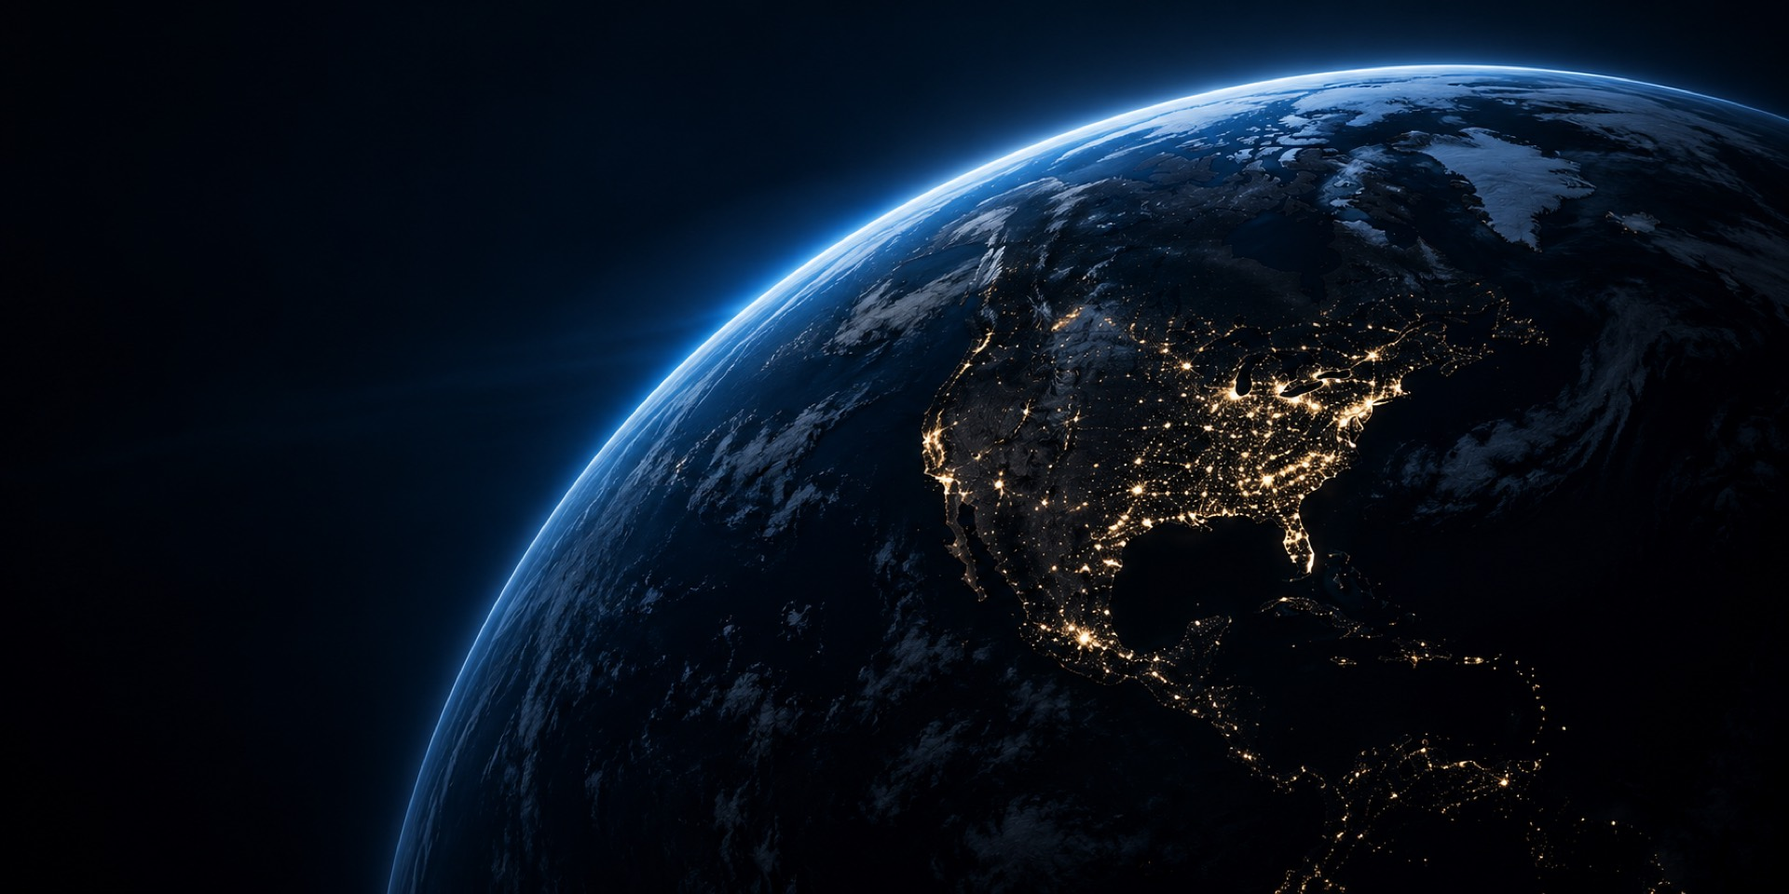
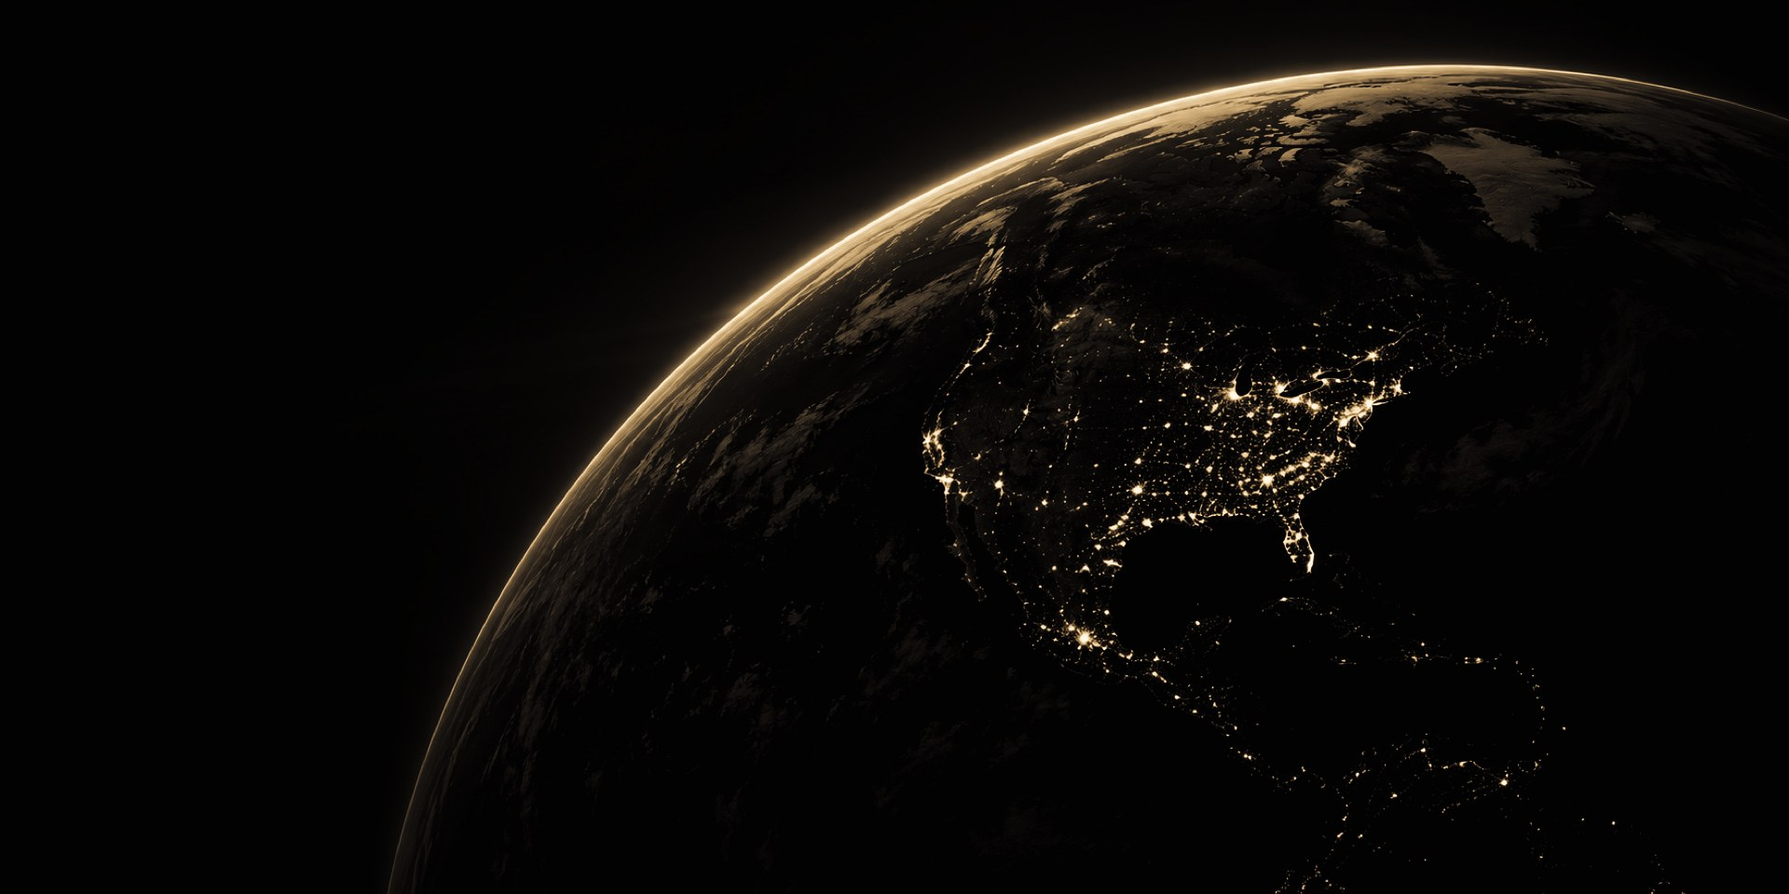
Tout en noir et or : photos étalonnées à l'or du logiciel, batteries et radar dorés
Claude-Session: https://claude.ai/code/session_01C6SVDBojuyhTsqyWwaduN5

diff --git a/index.html b/index.html
@@ -20,16 +20,16 @@
 <meta name="geo.region" content="CA-QC">
 <meta name="referrer" content="strict-origin-when-cross-origin">
 <meta name="theme-color" content="#000000">
-<link rel="icon" href="/favicon.svg?v=20261106d">
+<link rel="icon" href="/favicon.svg?v=20261106e">
 <link rel="apple-touch-icon" href="/apple-touch-icon.png">
 <script>try{var m=new URLSearchParams(location.search).get("mode")||localStorage.getItem("jarvis-mode");if(m==="base"||m==="signature"||m==="platinum")document.documentElement.dataset.mode=m}catch(e){}</script>
 <link rel="preload" href="/assets/fonts/geist/geist-latin.woff2" as="font" type="font/woff2" crossorigin>
-<link rel="stylesheet" href="/assets/css/wow.css?v=20261106d">
-<link rel="stylesheet" href="/assets/demos/app.css?v=20261106d">
-<link rel="stylesheet" href="/assets/demos/maison.css?v=20261106d">
-<link rel="stylesheet" href="/assets/demos/boulance.css?v=20261106d">
-<link rel="stylesheet" href="/assets/demos/carte.css?v=20261106d">
-<link rel="stylesheet" href="/assets/demos/rust.css?v=20261106d">
+<link rel="stylesheet" href="/assets/css/wow.css?v=20261106e">
+<link rel="stylesheet" href="/assets/demos/app.css?v=20261106e">
+<link rel="stylesheet" href="/assets/demos/maison.css?v=20261106e">
+<link rel="stylesheet" href="/assets/demos/boulance.css?v=20261106e">
+<link rel="stylesheet" href="/assets/demos/carte.css?v=20261106e">
+<link rel="stylesheet" href="/assets/demos/rust.css?v=20261106e">
 </head>
 <body class="">
 <a class="skip-link" href="#contenu">Aller au contenu</a>
@@ -580,8 +580,8 @@
         <div class="bl-cell">
           <svg class="bl-liquid" viewBox="0 0 200 400" preserveAspectRatio="none">
             <defs><linearGradient id="bl-liq-0" x1="0" x2="0" y1="0" y2="1">
-              <stop offset="0" style="stop-color:var(--bl-c, #34d399)"/>
-              <stop offset="1" style="stop-color:var(--bl-c2, #0f766e)"/></linearGradient></defs>
+              <stop offset="0" style="stop-color:var(--bl-c, #f0d29a)"/>
+              <stop offset="1" style="stop-color:var(--bl-c2, #7a5420)"/></linearGradient></defs>
             <path class="bl-wave w2" d=""></path><path class="bl-wave w1" d="" style="fill:url(#bl-liq-0)"></path>
           </svg>
           <div class="bl-bubbles"></div>
@@ -635,8 +635,8 @@
         <div class="bl-cell">
           <svg class="bl-liquid" viewBox="0 0 200 400" preserveAspectRatio="none">
             <defs><linearGradient id="bl-liq-1" x1="0" x2="0" y1="0" y2="1">
-              <stop offset="0" style="stop-color:var(--bl-c, #34d399)"/>
-              <stop offset="1" style="stop-color:var(--bl-c2, #0f766e)"/></linearGradient></defs>
+              <stop offset="0" style="stop-color:var(--bl-c, #f0d29a)"/>
+              <stop offset="1" style="stop-color:var(--bl-c2, #7a5420)"/></linearGradient></defs>
             <path class="bl-wave w2" d=""></path><path class="bl-wave w1" d="" style="fill:url(#bl-liq-1)"></path>
           </svg>
           <div class="bl-bubbles"></div>
@@ -1171,11 +1171,11 @@
   </div>
   <p class="foot-line"><span>© 2026 JARVIS Private Systems · Québec, Canada</span><span>Privé par conception</span></p>
 </footer>
-<script src="/assets/js/wow.js?v=20261106d" defer></script>
-<script src="/assets/demos/app.js?v=20261106d" defer></script>
-<script src="/assets/demos/maison.js?v=20261106d" defer></script>
-<script src="/assets/demos/boulance.js?v=20261106d" defer></script>
-<script src="/assets/demos/carte.js?v=20261106d" defer></script>
-<script src="/assets/demos/rust.js?v=20261106d" defer></script>
+<script src="/assets/js/wow.js?v=20261106e" defer></script>
+<script src="/assets/demos/app.js?v=20261106e" defer></script>
+<script src="/assets/demos/maison.js?v=20261106e" defer></script>
+<script src="/assets/demos/boulance.js?v=20261106e" defer></script>
+<script src="/assets/demos/carte.js?v=20261106e" defer></script>
+<script src="/assets/demos/rust.js?v=20261106e" defer></script>
 </body>
 </html>

diff --git a/laboratoire-mobile/index.html b/laboratoire-mobile/index.html
@@ -18,14 +18,14 @@
 <meta name="geo.region" content="CA-QC">
 <meta name="referrer" content="strict-origin-when-cross-origin">
 <meta name="theme-color" content="#000000">
-<link rel="icon" href="/favicon.svg?v=20261106d">
+<link rel="icon" href="/favicon.svg?v=20261106e">
 <link rel="apple-touch-icon" href="/apple-touch-icon.png">
 <script>try{var m=new URLSearchParams(location.search).get("mode")||localStorage.getItem("jarvis-mode");if(m==="base"||m==="signature"||m==="platinum")document.documentElement.dataset.mode=m}catch(e){}</script>
 <link rel="preload" href="/assets/fonts/geist/geist-latin.woff2" as="font" type="font/woff2" crossorigin>
-<link rel="stylesheet" href="/assets/css/wow.css?v=20261106d">
-<link rel="stylesheet" href="/assets/demos/boulance.css?v=20261106d">
-<link rel="stylesheet" href="/assets/demos/carte.css?v=20261106d">
-<link rel="stylesheet" href="/assets/demos/ambiances.css?v=20261106d">
+<link rel="stylesheet" href="/assets/css/wow.css?v=20261106e">
+<link rel="stylesheet" href="/assets/demos/boulance.css?v=20261106e">
+<link rel="stylesheet" href="/assets/demos/carte.css?v=20261106e">
+<link rel="stylesheet" href="/assets/demos/ambiances.css?v=20261106e">
 </head>
 <body class="">
 <a class="skip-link" href="#contenu">Aller au contenu</a>
@@ -96,8 +96,8 @@
         <div class="bl-cell">
           <svg class="bl-liquid" viewBox="0 0 200 400" preserveAspectRatio="none">
             <defs><linearGradient id="bl-liq-0" x1="0" x2="0" y1="0" y2="1">
-              <stop offset="0" style="stop-color:var(--bl-c, #34d399)"/>
-              <stop offset="1" style="stop-color:var(--bl-c2, #0f766e)"/></linearGradient></defs>
+              <stop offset="0" style="stop-color:var(--bl-c, #f0d29a)"/>
+              <stop offset="1" style="stop-color:var(--bl-c2, #7a5420)"/></linearGradient></defs>
             <path class="bl-wave w2" d=""></path><path class="bl-wave w1" d="" style="fill:url(#bl-liq-0)"></path>
           </svg>
           <div class="bl-bubbles"></div>
@@ -151,8 +151,8 @@
         <div class="bl-cell">
           <svg class="bl-liquid" viewBox="0 0 200 400" preserveAspectRatio="none">
             <defs><linearGradient id="bl-liq-1" x1="0" x2="0" y1="0" y2="1">
-              <stop offset="0" style="stop-color:var(--bl-c, #34d399)"/>
-              <stop offset="1" style="stop-color:var(--bl-c2, #0f766e)"/></linearGradient></defs>
+              <stop offset="0" style="stop-color:var(--bl-c, #f0d29a)"/>
+              <stop offset="1" style="stop-color:var(--bl-c2, #7a5420)"/></linearGradient></defs>
             <path class="bl-wave w2" d=""></path><path class="bl-wave w1" d="" style="fill:url(#bl-liq-1)"></path>
           </svg>
           <div class="bl-bubbles"></div>
@@ -386,9 +386,9 @@
   </div>
   <p class="foot-line"><span>© 2026 JARVIS Private Systems · Québec, Canada</span><span>Privé par conception</span></p>
 </footer>
-<script src="/assets/js/wow.js?v=20261106d" defer></script>
-<script src="/assets/demos/boulance.js?v=20261106d" defer></script>
-<script src="/assets/demos/carte.js?v=20261106d" defer></script>
-<script src="/assets/demos/ambiances.js?v=20261106d" defer></script>
+<script src="/assets/js/wow.js?v=20261106e" defer></script>
+<script src="/assets/demos/boulance.js?v=20261106e" defer></script>
+<script src="/assets/demos/carte.js?v=20261106e" defer></script>
+<script src="/assets/demos/ambiances.js?v=20261106e" defer></script>
 </body>
 </html>

diff --git a/assets/demos/boulance.css b/assets/demos/boulance.css
@@ -41,10 +41,10 @@
 [data-demo="boulance"] .bl-cell {
   position: relative; aspect-ratio: 1 / 2; border-radius: 18px; overflow: hidden;
   background: linear-gradient(90deg, #0d0c0b, #1a1814 50%, #0d0c0b); border: 1px solid #ffffff24;
-  box-shadow: inset 0 0 30px #000, 0 20px 50px #000c, 0 0 60px color-mix(in srgb, var(--bl-c, #34d399) calc(var(--soc, 0) * 0.3%), transparent);
+  box-shadow: inset 0 0 30px #000, 0 20px 50px #000c, 0 0 60px color-mix(in srgb, var(--bl-c, #f0d29a) calc(var(--soc, 0) * 0.28%), transparent);
 }
 [data-demo="boulance"] .bl-liquid { position: absolute; inset: 0; width: 100%; height: 100%; }
-[data-demo="boulance"] .bl-wave { fill: var(--bl-c, #34d399); transition: fill .8s; }
+[data-demo="boulance"] .bl-wave { fill: var(--bl-c, #f0d29a); transition: fill .8s; }
 [data-demo="boulance"] .bl-wave.w1 { opacity: .9; }
 [data-demo="boulance"] .bl-wave.w2 { opacity: .45; }
 [data-demo="boulance"] .bl-shine { position: absolute; inset: 0; pointer-events: none;
@@ -64,7 +64,7 @@
 [data-demo="boulance"] .bl-soc i { font-style: normal; font-size: .45em; margin-left: .1em; }
 [data-demo="boulance"] .bl-flag { font: 600 .58rem/1 var(--mono); letter-spacing: .1em; padding: .35rem .5rem; border-radius: 999px; border: 1px solid transparent; }
 [data-demo="boulance"] .bl-flag:empty { display: none; }
-[data-demo="boulance"] .bl-flag.ok { color: #9fe8bc; border-color: #2f5c42; }
+[data-demo="boulance"] .bl-flag.ok { color: var(--gold-soft); border-color: color-mix(in srgb, var(--gold-soft) 40%, transparent); }
 [data-demo="boulance"] .bl-flag.warn { color: #fcd34d; border-color: #7a5a1e; }
 [data-demo="boulance"] .bl-stats { display: grid; grid-template-columns: 1fr 1fr; gap: .7rem .9rem; margin: 0; }
 [data-demo="boulance"] .bl-stats dt { font: 500 .58rem/1.3 var(--mono); letter-spacing: .14em; text-transform: uppercase; color: #a8a8b0; }
@@ -72,7 +72,7 @@
 [data-demo="boulance"] .bl-stats dd { white-space: nowrap; margin: .2rem 0 0; font-weight: 650; font-size: 1.02rem; font-variant-numeric: tabular-nums; }
 [data-demo="boulance"] .bl-mos { display: flex; gap: .35rem; flex-wrap: wrap; margin: 1rem 0 0; }
 [data-demo="boulance"] .bl-mos span { font: 600 .56rem/1 var(--mono); letter-spacing: .1em; text-transform: uppercase; padding: .38rem .5rem; border-radius: 999px; border: 1px solid #ffffff24; color: #a8a8b0; }
-[data-demo="boulance"] .bl-mos span.on { color: #9fe8bc; border-color: #2f5c42; background: #0b2016aa; }
+[data-demo="boulance"] .bl-mos span.on { color: var(--gold-soft); border-color: color-mix(in srgb, var(--gold-soft) 40%, transparent); background: color-mix(in srgb, var(--gold-soft) 8%, transparent); }
 
 /* Centre : total, flux, courbe */
 [data-demo="boulance"] .bl-mid { padding: 2rem 1.6rem; display: flex; flex-direction: column; align-items: center; text-align: center; }

diff --git a/solutions/environnements-intelligents/index.html b/solutions/environnements-intelligents/index.html
@@ -18,13 +18,13 @@
 <meta name="geo.region" content="CA-QC">
 <meta name="referrer" content="strict-origin-when-cross-origin">
 <meta name="theme-color" content="#000000">
-<link rel="icon" href="/favicon.svg?v=20261106d">
+<link rel="icon" href="/favicon.svg?v=20261106e">
 <link rel="apple-touch-icon" href="/apple-touch-icon.png">
 <script>try{var m=new URLSearchParams(location.search).get("mode")||localStorage.getItem("jarvis-mode");if(m==="base"||m==="signature"||m==="platinum")document.documentElement.dataset.mode=m}catch(e){}</script>
 <link rel="preload" href="/assets/fonts/geist/geist-latin.woff2" as="font" type="font/woff2" crossorigin>
-<link rel="stylesheet" href="/assets/css/wow.css?v=20261106d">
-<link rel="stylesheet" href="/assets/demos/maison.css?v=20261106d">
-<link rel="stylesheet" href="/assets/demos/ambiances.css?v=20261106d">
+<link rel="stylesheet" href="/assets/css/wow.css?v=20261106e">
+<link rel="stylesheet" href="/assets/demos/maison.css?v=20261106e">
+<link rel="stylesheet" href="/assets/demos/ambiances.css?v=20261106e">
 </head>
 <body class="">
 <a class="skip-link" href="#contenu">Aller au contenu</a>
@@ -293,8 +293,8 @@
   </div>
   <p class="foot-line"><span>© 2026 JARVIS Private Systems · Québec, Canada</span><span>Privé par conception</span></p>
 </footer>
-<script src="/assets/js/wow.js?v=20261106d" defer></script>
-<script src="/assets/demos/maison.js?v=20261106d" defer></script>
-<script src="/assets/demos/ambiances.js?v=20261106d" defer></script>
+<script src="/assets/js/wow.js?v=20261106e" defer></script>
+<script src="/assets/demos/maison.js?v=20261106e" defer></script>
+<script src="/assets/demos/ambiances.js?v=20261106e" defer></script>
 </body>
 </html>

diff --git a/plateforme/index.html b/plateforme/index.html
@@ -20,13 +20,13 @@
 <meta name="geo.region" content="CA-QC">
 <meta name="referrer" content="strict-origin-when-cross-origin">
 <meta name="theme-color" content="#000000">
-<link rel="icon" href="/favicon.svg?v=20261106d">
+<link rel="icon" href="/favicon.svg?v=20261106e">
 <link rel="apple-touch-icon" href="/apple-touch-icon.png">
 <script>try{var m=new URLSearchParams(location.search).get("mode")||localStorage.getItem("jarvis-mode");if(m==="base"||m==="signature"||m==="platinum")document.documentElement.dataset.mode=m}catch(e){}</script>
 <link rel="preload" href="/assets/fonts/geist/geist-latin.woff2" as="font" type="font/woff2" crossorigin>
-<link rel="stylesheet" href="/assets/css/wow.css?v=20261106d">
-<link rel="stylesheet" href="/assets/demos/app.css?v=20261106d">
-<link rel="stylesheet" href="/assets/demos/rust.css?v=20261106d">
+<link rel="stylesheet" href="/assets/css/wow.css?v=20261106e">
+<link rel="stylesheet" href="/assets/demos/app.css?v=20261106e">
+<link rel="stylesheet" href="/assets/demos/rust.css?v=20261106e">
 </head>
 <body class="">
 <a class="skip-link" href="#contenu">Aller au contenu</a>
@@ -674,8 +674,8 @@
   </div>
   <p class="foot-line"><span>© 2026 JARVIS Private Systems · Québec, Canada</span><span>Privé par conception</span></p>
 </footer>
-<script src="/assets/js/wow.js?v=20261106d" defer></script>
-<script src="/assets/demos/app.js?v=20261106d" defer></script>
-<script src="/assets/demos/rust.js?v=20261106d" defer></script>
+<script src="/assets/js/wow.js?v=20261106e" defer></script>
+<script src="/assets/demos/app.js?v=20261106e" defer></script>
+<script src="/assets/demos/rust.js?v=20261106e" defer></script>
 </body>
 </html>

diff --git a/solutions/automatisation-operations/index.html b/solutions/automatisation-operations/index.html
@@ -18,12 +18,12 @@
 <meta name="geo.region" content="CA-QC">
 <meta name="referrer" content="strict-origin-when-cross-origin">
 <meta name="theme-color" content="#000000">
-<link rel="icon" href="/favicon.svg?v=20261106d">
+<link rel="icon" href="/favicon.svg?v=20261106e">
 <link rel="apple-touch-icon" href="/apple-touch-icon.png">
 <script>try{var m=new URLSearchParams(location.search).get("mode")||localStorage.getItem("jarvis-mode");if(m==="base"||m==="signature"||m==="platinum")document.documentElement.dataset.mode=m}catch(e){}</script>
 <link rel="preload" href="/assets/fonts/geist/geist-latin.woff2" as="font" type="font/woff2" crossorigin>
-<link rel="stylesheet" href="/assets/css/wow.css?v=20261106d">
-<link rel="stylesheet" href="/assets/demos/automatisation.css?v=20261106d">
+<link rel="stylesheet" href="/assets/css/wow.css?v=20261106e">
+<link rel="stylesheet" href="/assets/demos/automatisation.css?v=20261106e">
 </head>
 <body class="">
 <a class="skip-link" href="#contenu">Aller au contenu</a>
@@ -331,7 +331,7 @@
   </div>
   <p class="foot-line"><span>© 2026 JARVIS Private Systems · Québec, Canada</span><span>Privé par conception</span></p>
 </footer>
-<script src="/assets/js/wow.js?v=20261106d" defer></script>
-<script src="/assets/demos/automatisation.js?v=20261106d" defer></script>
+<script src="/assets/js/wow.js?v=20261106e" defer></script>
+<script src="/assets/demos/automatisation.js?v=20261106e" defer></script>
 </body>
 </html>

diff --git a/solutions/diagnostic-care/index.html b/solutions/diagnostic-care/index.html
@@ -18,12 +18,12 @@
 <meta name="geo.region" content="CA-QC">
 <meta name="referrer" content="strict-origin-when-cross-origin">
 <meta name="theme-color" content="#000000">
-<link rel="icon" href="/favicon.svg?v=20261106d">
+<link rel="icon" href="/favicon.svg?v=20261106e">
 <link rel="apple-touch-icon" href="/apple-touch-icon.png">
 <script>try{var m=new URLSearchParams(location.search).get("mode")||localStorage.getItem("jarvis-mode");if(m==="base"||m==="signature"||m==="platinum")document.documentElement.dataset.mode=m}catch(e){}</script>
 <link rel="preload" href="/assets/fonts/geist/geist-latin.woff2" as="font" type="font/woff2" crossorigin>
-<link rel="stylesheet" href="/assets/css/wow.css?v=20261106d">
-<link rel="stylesheet" href="/assets/demos/diagnostic.css?v=20261106d">
+<link rel="stylesheet" href="/assets/css/wow.css?v=20261106e">
+<link rel="stylesheet" href="/assets/demos/diagnostic.css?v=20261106e">
 </head>
 <body class="">
 <a class="skip-link" href="#contenu">Aller au contenu</a>
@@ -195,7 +195,7 @@
   </div>
   <p class="foot-line"><span>© 2026 JARVIS Private Systems · Québec, Canada</span><span>Privé par conception</span></p>
 </footer>
-<script src="/assets/js/wow.js?v=20261106d" defer></script>
-<script src="/assets/demos/diagnostic.js?v=20261106d" defer></script>
+<script src="/assets/js/wow.js?v=20261106e" defer></script>
+<script src="/assets/demos/diagnostic.js?v=20261106e" defer></script>
 </body>
 </html>

diff --git a/solutions/securite-intelligente/index.html b/solutions/securite-intelligente/index.html
@@ -18,12 +18,12 @@
 <meta name="geo.region" content="CA-QC">
 <meta name="referrer" content="strict-origin-when-cross-origin">
 <meta name="theme-color" content="#000000">
-<link rel="icon" href="/favicon.svg?v=20261106d">
+<link rel="icon" href="/favicon.svg?v=20261106e">
 <link rel="apple-touch-icon" href="/apple-touch-icon.png">
 <script>try{var m=new URLSearchParams(location.search).get("mode")||localStorage.getItem("jarvis-mode");if(m==="base"||m==="signature"||m==="platinum")document.documentElement.dataset.mode=m}catch(e){}</script>
 <link rel="preload" href="/assets/fonts/geist/geist-latin.woff2" as="font" type="font/woff2" crossorigin>
-<link rel="stylesheet" href="/assets/css/wow.css?v=20261106d">
-<link rel="stylesheet" href="/assets/demos/securite.css?v=20261106d">
+<link rel="stylesheet" href="/assets/css/wow.css?v=20261106e">
+<link rel="stylesheet" href="/assets/demos/securite.css?v=20261106e">
 </head>
 <body class="">
 <a class="skip-link" href="#contenu">Aller au contenu</a>
@@ -249,7 +249,7 @@
   </div>
   <p class="foot-line"><span>© 2026 JARVIS Private Systems · Québec, Canada</span><span>Privé par conception</span></p>
 </footer>
-<script src="/assets/js/wow.js?v=20261106d" defer></script>
-<script src="/assets/demos/securite.js?v=20261106d" defer></script>
+<script src="/assets/js/wow.js?v=20261106e" defer></script>
+<script src="/assets/demos/securite.js?v=20261106e" defer></script>
 </body>
 </html>

diff --git a/solutions/reseau-resilience/index.html b/solutions/reseau-resilience/index.html
@@ -18,12 +18,12 @@
 <meta name="geo.region" content="CA-QC">
 <meta name="referrer" content="strict-origin-when-cross-origin">
 <meta name="theme-color" content="#000000">
-<link rel="icon" href="/favicon.svg?v=20261106d">
+<link rel="icon" href="/favicon.svg?v=20261106e">
 <link rel="apple-touch-icon" href="/apple-touch-icon.png">
 <script>try{var m=new URLSearchParams(location.search).get("mode")||localStorage.getItem("jarvis-mode");if(m==="base"||m==="signature"||m==="platinum")document.documentElement.dataset.mode=m}catch(e){}</script>
 <link rel="preload" href="/assets/fonts/geist/geist-latin.woff2" as="font" type="font/woff2" crossorigin>
-<link rel="stylesheet" href="/assets/css/wow.css?v=20261106d">
-<link rel="stylesheet" href="/assets/demos/reseau.css?v=20261106d">
+<link rel="stylesheet" href="/assets/css/wow.css?v=20261106e">
+<link rel="stylesheet" href="/assets/demos/reseau.css?v=20261106e">
 </head>
 <body class="">
 <a class="skip-link" href="#contenu">Aller au contenu</a>
@@ -223,7 +223,7 @@
   </div>
   <p class="foot-line"><span>© 2026 JARVIS Private Systems · Québec, Canada</span><span>Privé par conception</span></p>
 </footer>
-<script src="/assets/js/wow.js?v=20261106d" defer></script>
-<script src="/assets/demos/reseau.js?v=20261106d" defer></script>
+<script src="/assets/js/wow.js?v=20261106e" defer></script>
+<script src="/assets/demos/reseau.js?v=20261106e" defer></script>
 </body>
 </html>

diff --git a/solutions/ia-privee-connaissances/index.html b/solutions/ia-privee-connaissances/index.html
@@ -18,12 +18,12 @@
 <meta name="geo.region" content="CA-QC">
 <meta name="referrer" content="strict-origin-when-cross-origin">
 <meta name="theme-color" content="#000000">
-<link rel="icon" href="/favicon.svg?v=20261106d">
+<link rel="icon" href="/favicon.svg?v=20261106e">
 <link rel="apple-touch-icon" href="/apple-touch-icon.png">
 <script>try{var m=new URLSearchParams(location.search).get("mode")||localStorage.getItem("jarvis-mode");if(m==="base"||m==="signature"||m==="platinum")document.documentElement.dataset.mode=m}catch(e){}</script>
 <link rel="preload" href="/assets/fonts/geist/geist-latin.woff2" as="font" type="font/woff2" crossorigin>
-<link rel="stylesheet" href="/assets/css/wow.css?v=20261106d">
-<link rel="stylesheet" href="/assets/demos/ia.css?v=20261106d">
+<link rel="stylesheet" href="/assets/css/wow.css?v=20261106e">
+<link rel="stylesheet" href="/assets/demos/ia.css?v=20261106e">
 </head>
 <body class="">
 <a class="skip-link" href="#contenu">Aller au contenu</a>
@@ -447,7 +447,7 @@
   </div>
   <p class="foot-line"><span>© 2026 JARVIS Private Systems · Québec, Canada</span><span>Privé par conception</span></p>
 </footer>
-<script src="/assets/js/wow.js?v=20261106d" defer></script>
-<script src="/assets/demos/ia.js?v=20261106d" defer></script>
+<script src="/assets/js/wow.js?v=20261106e" defer></script>
+<script src="/assets/demos/ia.js?v=20261106e" defer></script>
 </body>
 </html>

diff --git a/assets/demos/carte.css b/assets/demos/carte.css
@@ -23,7 +23,7 @@
   position: absolute; right: 1.2rem; bottom: 1.2rem; z-index: 2; display: flex; align-items: center; gap: .5rem; padding: .5rem .75rem; border-radius: 999px;
   background: #050505c8; border: 1px solid #ffffff24; font: 500 .6rem/1 var(--mono); letter-spacing: .08em; text-transform: uppercase; color: #c4c4cc;
 }
-[data-demo="carte"] .ct-legend i { width: 90px; height: 8px; border-radius: 4px; background: linear-gradient(90deg, #9be7ff, #3b82f6, #22c55e, #facc15, #f97316, #ef4444, #c026d3); }
+[data-demo="carte"] .ct-legend i { width: 90px; height: 8px; border-radius: 4px; background: linear-gradient(90deg, #4a3418, #9a6f33, #e0b96f, #fff1d0); }
 [data-demo="carte"] .ct-legend em { font-style: normal; color: #a8a8b0; margin-left: .3rem; }
 [data-demo="carte"] .ct-marker { position: relative; width: 18px; height: 18px; }
 [data-demo="carte"] .ct-marker i { position: absolute; inset: 0; border-radius: 50%; background: var(--gold-soft); box-shadow: 0 0 0 3px #000, 0 0 22px var(--mode-glow); }
@@ -60,3 +60,6 @@
 @media (max-width: 700px) {
   [data-demo="carte"] .ct-track button.is-live { font-size: .58rem; }
 }
+
+/* Noir et or : la carte et le radar prennent la teinte du site; l'intensité se lit à la luminosité */
+[data-demo="carte"] .ct-map canvas { filter: sepia(.85) saturate(1.55) hue-rotate(-10deg) brightness(.98) contrast(1.06); }

diff --git a/a-propos/index.html b/a-propos/index.html
@@ -18,11 +18,11 @@
 <meta name="geo.region" content="CA-QC">
 <meta name="referrer" content="strict-origin-when-cross-origin">
 <meta name="theme-color" content="#000000">
-<link rel="icon" href="/favicon.svg?v=20261106d">
+<link rel="icon" href="/favicon.svg?v=20261106e">
 <link rel="apple-touch-icon" href="/apple-touch-icon.png">
 <script>try{var m=new URLSearchParams(location.search).get("mode")||localStorage.getItem("jarvis-mode");if(m==="base"||m==="signature"||m==="platinum")document.documentElement.dataset.mode=m}catch(e){}</script>
 <link rel="preload" href="/assets/fonts/geist/geist-latin.woff2" as="font" type="font/woff2" crossorigin>
-<link rel="stylesheet" href="/assets/css/wow.css?v=20261106d">
+<link rel="stylesheet" href="/assets/css/wow.css?v=20261106e">
 </head>
 <body class="">
 <a class="skip-link" href="#contenu">Aller au contenu</a>
@@ -134,6 +134,6 @@
   </div>
   <p class="foot-line"><span>© 2026 JARVIS Private Systems · Québec, Canada</span><span>Privé par conception</span></p>
 </footer>
-<script src="/assets/js/wow.js?v=20261106d" defer></script>
+<script src="/assets/js/wow.js?v=20261106e" defer></script>
 </body>
 </html>
